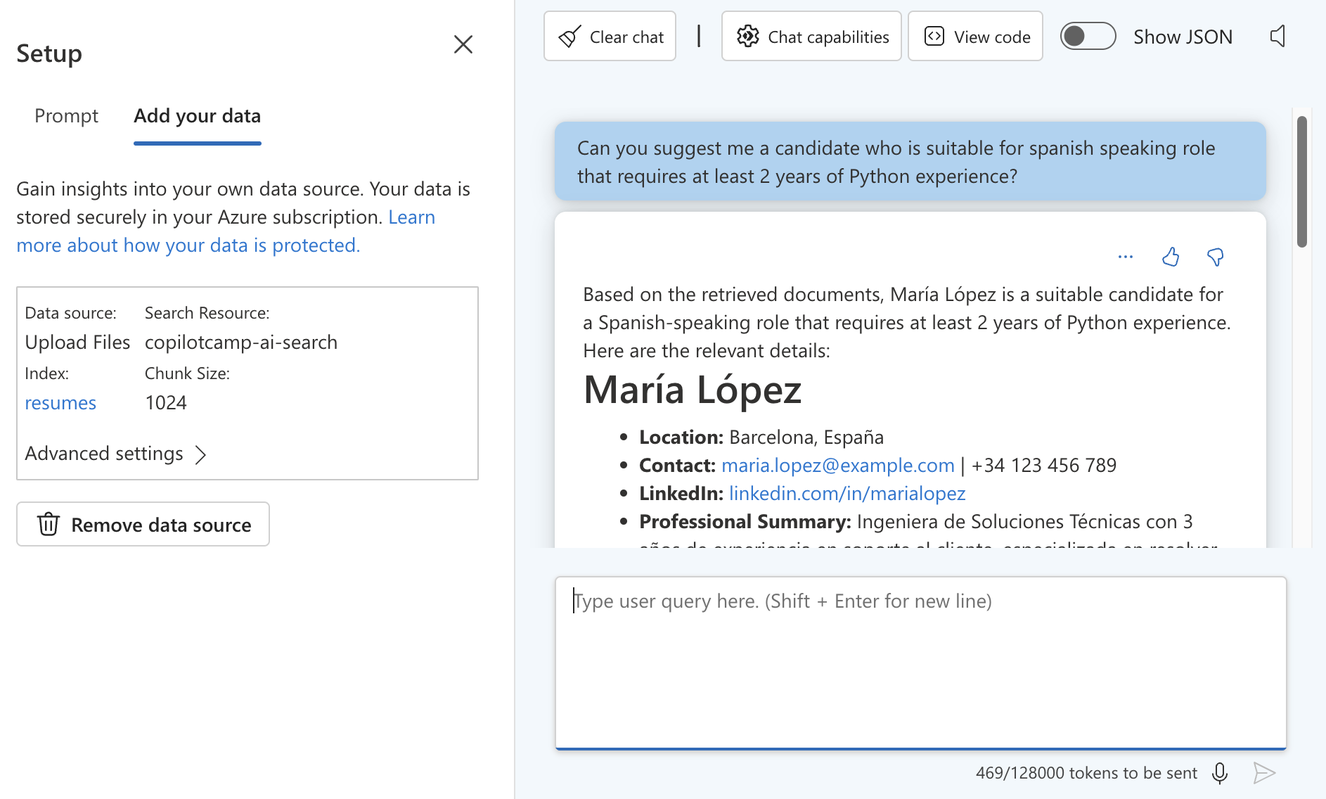
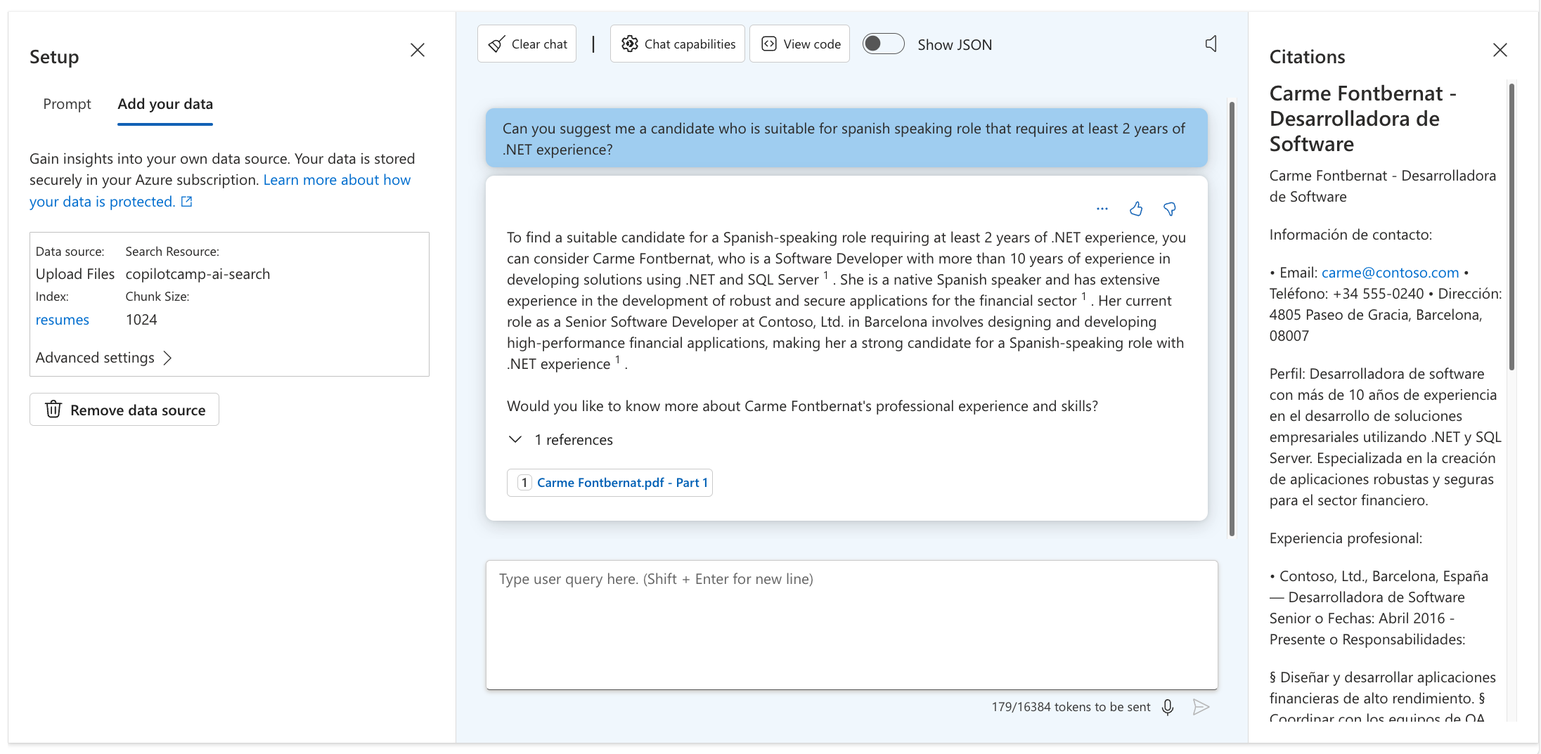
feedback fixes

diff --git a/docs/pages/custom-engine/01-custom-engine-copilot.md b/docs/pages/custom-engine/01-custom-engine-copilot.md
@@ -1,26 +1,29 @@
-# Lab B1 - Build custom engine copilots using Azure OpenAI and Teams Toolkit
+# Lab B1 - Build a custom engine copilot using Azure OpenAI and Teams Toolkit
 
 In this lab you will build a custom engine copilot using Teams Toolkit for Visual Studio Code. You will also utilize Azure OpenAI models in your custom engine copilot and define your first prompt.
 
 ???+ info "Navigating the Building your own copilot labs (B Path)"
     - [Lab B0 - Prerequisites](/copilot-camp/pages/custom-engine/00-prerequisites)
-    - [Lab B1 - Build custom engine copilots](/copilot-camp/pages/custom-engine/01-custom-engine-copilot) (📍 You are here)
-    - [Lab B2 - Bring your data](/copilot-camp/pages/custom-engine/02-rag)
-    - [Lab B3 - Enhance user experience](/copilot-camp/pages/custom-engine/03-powered-by-ai)
-    - [Lab B4 - Add actions](/copilot-camp/pages/custom-engine/04-actions)
-    - [Lab B5 - Add authentication](/copilot-camp/pages/custom-engine/05-authentication)
+    - [Lab B1 - Build a custom engine copilot using Azure OpenAI and Teams Toolkit](/copilot-camp/pages/custom-engine/01-custom-engine-copilot) (📍 You are here)
+    - [Lab B2 - Index your data in Azure AI Search and bring it into your custom engine copilot](/copilot-camp/pages/custom-engine/02-rag)
+    - [Lab B3 - Enhance user experience with the Powered by AI kit](/copilot-camp/pages/custom-engine/03-powered-by-ai)
+    - [Lab B4 - Add actions to handle complex tasks](/copilot-camp/pages/custom-engine/04-actions)
+    - [Lab B5 - Secure your solution using authentication](/copilot-camp/pages/custom-engine/05-authentication)
 
 In this lab you will learn:
 
 - What is a custom engine copilot
-- Create Azure OpenAI service and models
+- Create Azure OpenAI service and a deployment model
 - Create a custom engine copilot using Teams toolkit
 - Define a prompt in your custom engine copilot
 - Learn how to run and test your app
 
 ## Introduction
 
-Welcome aboard to the exciting journey of building your own custom engine copilot! In this path, you'll create a personalized copilot for Microsoft Teams using cutting-edge Azure OpenAI models. You'll be able to define specific prompts, integrate complex data, and add advanced skills to make your copilot truly unique. By using custom models and orchestration, your copilot will tackle advanced tasks, complex conversations, and workflows, delivering an exceptional, personalized experience. Let's dive in and start building your first custom engine copilot!
+Welcome aboard to the exciting journey of building your own custom engine copilot! In this path, you'll create a custom engine copilot for Microsoft Teams using cutting-edge Azure OpenAI models. You'll be able to define specific prompts, integrate complex data, and add advanced skills to make your copilot truly unique. By using custom models and orchestration, your copilot will tackle advanced tasks, complex conversations, and workflows, delivering an exceptional, personalized experience. Let's dive in and start building your first custom engine copilot!
+
+!!! tip "Before everything else, lets remember... What is a custom engine copilot?"
+    Custom engine copilots are chatbots powered by Generative AI, designed to provide sophisticated conversational experiences. Custom engine copilots are built using the Teams AI library, which provides comprehensive AI functionalities, including managing prompts, actions, and model integration as well as extensive options for UI customization. This ensures that your chatbots leverage the full range of AI capabilities while delivering a seamless and engaging experience aligned with Microsoft platforms.
 
 ## Exercise 1: Create Azure OpenAI service and models
 
@@ -43,7 +46,6 @@ Welcome aboard to the exciting journey of building your own custom engine copilo
     - **gpt-4o:** An optimized version for specific tasks, offering faster and more efficient performance in those areas.
 
     - **gpt-35-turbo:** A balanced model that provides good performance at a lower cost, ideal for a wide range of applications.
-
 
 You'll need to complete the Azure subscription pre-requisite before starting with this exercise.
 
@@ -72,10 +74,10 @@ In your Azure OpenAI service, navigate to **Model deployments** from the left si
 
 From the **Deployments** tab, select **Create a new deployment**. Fill out the following details and select **Create**:
 
+- **Deployment name:** Recommended to use the same name with the selected deployment model, such as `gpt-35-turbo`.
 - **Select a model:** Select `gpt-35-turbo` or higher model.
 - **Model version:** Auto update to default.
 - **Deployment type:** Provisioned-Managed.
-- **Deployment name:** Recommended to use the same name with the selected deployment model, such as `gpt-35-turbo`.
 - **Content Filter:** Default.
 
 !!! tip "Tip: Handling no quota available message"
@@ -85,6 +87,8 @@ From the **Deployments** tab, select **Create a new deployment**. Fill out the f
 
 Once your model is successfully created, you can navigate to **Chat**, and test your model by selecting one of the available templates in **Prompt** section and asking relevant questions in the chat playground.
 
+For example, choose "Shakespeare writing assistant" and ask questions such as "tell me about Istanbul". You'll be amazed by the descriptive and poetic style of the response ✍.
+
 ![Testing the model in Azure OpenAI Studio Chat Playground](../../assets/images/custom-engine-01/azure-openai-studio-chat.png)
 
 ## Exercise 2: Scaffold a custom engine copilot from template
@@ -92,9 +96,6 @@ Once your model is successfully created, you can navigate to **Chat**, and test 
 You'll need to complete all the required pre-requisites before starting with this exercise.
 
 ### Step 1: Use Teams Toolkit to create a new custom engine copilot
-
-???+ info "What is a custom engine copilot?"
-    Custom engine copilots are chat bots built with Teams AI library that utilizes Language Model of your choice for enhanced conversational interactions. With all the UI components in the Teams AI library, you can build custom engine copilots that look and feel like a Microsoft experience while leveraging all the enhanced AI capabilities from Azure AI.
 
 1. Open Teams Toolkit on Visual Studio Code and select **Create a New App** > **Custom Engine Copilot** > **Basic AI Chatbot**.
 1. Select **TypeScript** as a programming language choice and **Azure OpenAI** as Large Language model of your choice.
@@ -106,29 +107,7 @@ You'll need to complete all the required pre-requisites before starting with thi
 
 After providing all the details mentioned above, your project will be scaffolded successfully in seconds.
 
-### Step 2: Understanding the files in the app
-
-Let's explore what's included in the custom engine copilot template. Here is the list of folders and files that are important to know:
-
-- `appPackage`: Templates for the Teams application manifest
-- `env`: Environment files
-- `infra`: Templates for provisioning Azure resources
-- `src`: The source code for the application
-- `teamsapp.yml`: The main Teams Toolkit project file that defines properties and configuration definitions.
-- `teamsapp.local.yml`: This overrides `teamsapp.yml` with actions that enable local execution and debugging.
-- `teamsapp.testtool.yml`: This overrides `teamsapp.yml` with actions that enable local execution and debugging in Teams App Test Tool.
-
-Diving into the application folder `src` that includes the main app files:
-
-- `src/index.ts`: Sets up the bot app server.
-- `src/adapter.ts`: Sets up the bot adapter.
-- `src/config.ts`: Defines the environment variables.
-- `src/prompts/chat/skprompt.txt`: Defines the prompt.
-- `src/prompts/chat/config.json`: Configures the prompt.
-- `src/app/app.ts`: Handles business logics for the Basic AI Chatbot.
-
-
-### Step 3: Customize prompt and test the app
+### Step 2: Customize prompt and test the app
 
 Prompts are essential for interacting with AI language models and directing their behavior. They serve as the inputs or questions we provide to the model to obtain specific responses. By crafting prompts carefully, we can guide the AI to generate desired outputs. Let's customize the prompt of our custom engine copilot and define the behavior of Career Genie!
 
@@ -144,7 +123,7 @@ You like using emojis where appropriate.
 To test the behavior of your app quickly, you can use Teams App Test Tool. Later in the exercise, you'll run and debug your custom engine copilot on Microsoft Teams.
 
 ??? info "More information about the Teams App Test Tool"
-    Teams App Test Tool (or short as Test Tool) is a component integrated into Teams Toolkit. This component helps developers to debug, test, and iterate on the app design of a Teams bot application in a web-based chat environment that emulates the behavior, look, and feel of Microsoft Teams.
+    The Teams App Test Tool, or simply Test Tool, is a feature within Teams Toolkit that enables developers to debug, test, and refine their Teams bot applications in a web-based chat environment that mimics the behavior, look, and feel of Microsoft Teams. This tool eliminates the need for a Microsoft 365 tenant or a dev tunnel, streamlining the development process.
 
 Start debugging your app by selecting **Run and Debug** tab on Visual Studio Code and **Debug in Test Tool**. Teams App Test Tool will pop up on your browser and you can start chatting with your custom engine copilot right away! Some of the recommended questions you can ask to test the behavior:
 
@@ -153,5 +132,15 @@ Start debugging your app by selecting **Run and Debug** tab on Visual Studio Cod
 - "Can you share a job template?"
 
 ![Test Career Genie in App Test Tool](../../assets/images/custom-engine-01/teams-app-test-tool.png)
+
+??? info "What does Teams Toolkit do behind the scene?"
+    When you start debugging your app, Teams Toolkit completes some required tasks for you behind the scene, such as:
+
+    - Checking the required prerequisites such as Node.js, Microsoft 365 Account (If debugging in local or dev), ports occupancy.
+    - Starting local tunneling service (If debugging in local) to forward public URL to local port.
+    - Executing the lifecycle stage provision, available in `teamsapp.yml`, `teamsapp.local.user` or `teamsapp.testtool.user` files for creating Teams App ID, completing bot registration, executing the app manifest and creating the app package, available in `appPackage/` folder.
+    - Create or update variables to env file, available in `env/` folder.
+
+After successfully completing your testing, end your debugging session and close the terminals in Visual Studio Code.
 
 Congratulations you've successfully built your first custom engine copilot, Career Genie! To advance the skills of the Career Genie, continue with the next lab [Bring your data from Azure AI Search to your app](02-rag.md).

diff --git a/docs/pages/custom-engine/00-prerequisites.md b/docs/pages/custom-engine/00-prerequisites.md
@@ -1,17 +1,17 @@
 
 # Lab B0 - Prerequisites
 
-In this lab you set up for development environment to build, test and deploy the custom engine copilot you'll develop throughout the path B.
+In this lab you will set up your development environment to build, test, and deploy the custom engine copilot you will develop throughout the path.
 
 ???+ info "Navigating the Building your own copilot labs (B Path)"
     - [Lab B0 - Prerequisites](/copilot-camp/pages/custom-engine/00-prerequisites) (📍 You are here)
-    - [Lab B1 - Build custom engine copilots](/copilot-camp/pages/custom-engine/01-custom-engine-copilot)
-    - [Lab B2 - Bring your data](/copilot-camp/pages/custom-engine/02-rag)
-    - [Lab B3 - Enhance user experience](/copilot-camp/pages/custom-engine/03-powered-by-ai)
-    - [Lab B4 - Add actions](/copilot-camp/pages/custom-engine/04-actions)
-    - [Lab B5 - Add authentication](/copilot-camp/pages/custom-engine/05-authentication)
+    - [Lab B1 - Build a custom engine copilot using Azure OpenAI and Teams Toolkit](/copilot-camp/pages/custom-engine/01-custom-engine-copilot)
+    - [Lab B2 - Index your data in Azure AI Search and bring it into your custom engine copilot](/copilot-camp/pages/custom-engine/02-rag)
+    - [Lab B3 - Enhance user experience with the Powered by AI kit](/copilot-camp/pages/custom-engine/03-powered-by-ai)
+    - [Lab B4 - Add actions to handle complex tasks](/copilot-camp/pages/custom-engine/04-actions)
+    - [Lab B5 - Secure your solution using authentication](/copilot-camp/pages/custom-engine/05-authentication)
 
-In this lab you will learn:
+In this lab you will learn how to:
 
 - Make your developer tenant for Microsoft 365 ready
 - Install and configure Teams toolkit for Visual Studio Code
@@ -19,7 +19,7 @@ In this lab you will learn:
 
 ## Exercise 1: Set up your Microsoft 365 Subscription
 
-To install and run your own declarative copilot, you'll need a Microsoft 365 tenant where you have administrator permission. Fortunately you can get one for free through the Microsoft 365 Developer Program! In the labs which follow, you'll also use this tenant to run Microsoft Teams where you can test this lab.
+To install and run your own custom engine copilot, you'll need a Microsoft 365 tenant where you have administrator permission. Fortunately you can get one for free through the Microsoft 365 Developer Program! In the labs which follow, you'll also use this tenant to run Microsoft Teams where you can test this lab.
 You will also need Copilot License to test the app.
 
 ### Step 1: Get a tenant
@@ -75,7 +75,7 @@ It should be no surprise that **Teams Toolkit for Visual Studio Code** requires 
 
 NodeJS is a program that allows you to run JavaScript on your computer; it uses the open source "V8" engine, which is used in popular web browsers such as Microsoft Edge and Google Chrome. You will need NodeJS to run the web server code used throughout this workshop.
 
-Browse to [https://nodejs.org/en/download/](https://nodejs.org/en/download/){target=_blank} and install version 18.x, the "LTS" (Long Term Support) version for your operating system. This lab has been tested using NodeJS version 18.16.0. If you already have another version of NodeJS installed, you may want to set up the [Node Version Manager](https://github.com/nvm-sh/nvm){target=_blank} (or [this variation](https://github.com/coreybutler/nvm-windows){target=_blank} for Microsoft Windows), which allows you to easily switch Node versions on the same computer.
+Browse to [https://nodejs.org/en/download/](https://nodejs.org/en/download/){target=_blank} and install version 20.x, the "LTS" (Long Term Support) version for your operating system. This lab has been tested using NodeJS version 18.16.0. If you already have another version of NodeJS installed, you may want to set up the [Node Version Manager](https://github.com/nvm-sh/nvm){target=_blank} (or [this variation](https://github.com/coreybutler/nvm-windows){target=_blank} for Microsoft Windows), which allows you to easily switch Node versions on the same computer.
 
 ### Step 3: Install Teams Toolkit
 
@@ -111,9 +111,5 @@ Follow the steps to activate an Azure free account:
 
 !!! tip "Tip: Managing Azure resources after 30 days"
     Azure free account will be available only for 30 days. Make sure you don't have any services running in your free subscription at the end of 30 days. If you want to continue using Azure services at the end of 30 days, you must upgrade to a pay-as-you-go subscription by removing the spending limit. This allows continued use of the Azure free account and select free services for the term.
-
-### Step 2: Obtain access to create Azure OpenAI service
-
-In the path B exercises, you'll need to create Azure OpenAI service and models. Before starting with the exercises, make sure you have access granted to Azure OpenAI in the desired Azure subscription and have required permissions to create Azure OpenAI resources and to deploy models. If you don't have access to Azure OpenAI, you must submit an application to access Azure OpenAI Service. To apply for access, complete [this form](https://customervoice.microsoft.com/Pages/ResponsePage.aspx?id=v4j5cvGGr0GRqy180BHbR7en2Ais5pxKtso_Pz4b1_xUNTZBNzRKNlVQSFhZMU9aV09EVzYxWFdORCQlQCN0PWcu).
 
 Now you are all set to create your first custom engine copilot! Proceed to create a [Custom engine copilot](./01-custom-engine-copilot.md).

diff --git a/docs/pages/custom-engine/02-rag.md b/docs/pages/custom-engine/02-rag.md
@@ -1,14 +1,14 @@
-# Lab B2 - Bring your data from Azure AI Search to your app
+# Lab B2 - Index your data in Azure AI Search and bring it into your custom engine copilot
 
 In this lab you will enable Retrieval-Augmented Generation for your custom engine copilot and integrate with Azure AI Search to chat with your data.
 
 ???+ info "Navigating the Building your own copilot labs (B Path)"
     - [Lab B0 - Prerequisites](/copilot-camp/pages/custom-engine/00-prerequisites)
-    - [Lab B1 - Build custom engine copilots](/copilot-camp/pages/custom-engine/01-custom-engine-copilot)
-    - [Lab B2 - Bring your data](/copilot-camp/pages/custom-engine/02-rag) (📍 You are here)
-    - [Lab B3 - Enhance user experience](/copilot-camp/pages/custom-engine/03-powered-by-ai)
-    - [Lab B4 - Add actions](/copilot-camp/pages/custom-engine/04-actions)
-    - [Lab B5 - Add authentication](/copilot-camp/pages/custom-engine/05-authentication)
+    - [Lab B1 - Build a custom engine copilot using Azure OpenAI and Teams Toolkit](/copilot-camp/pages/custom-engine/01-custom-engine-copilot)
+    - [Lab B2 - Index your data in Azure AI Search and bring it into your custom engine copilot](/copilot-camp/pages/custom-engine/02-rag) (📍 You are here)
+    - [Lab B3 - Enhance user experience with the Powered by AI kit](/copilot-camp/pages/custom-engine/03-powered-by-ai)
+    - [Lab B4 - Add actions to handle complex tasks](/copilot-camp/pages/custom-engine/04-actions)
+    - [Lab B5 - Secure your solution using authentication](/copilot-camp/pages/custom-engine/05-authentication)
 
 In this lab you will learn:
 
@@ -78,9 +78,9 @@ You'll need to complete the Azure subscription pre-requisite before starting wit
     - **Resource group:** Select the pre-existing resource group you created earlier for Azure OpenAI service.
     - **Name:** A descriptive name for your Azure OpenAI Service resource, such as `copilotcamp-ai-search`.
     - **Location:** The location of your instance.
-    - **Pricing Tier:** Standard
+    - **Pricing Tier:** Basic
 
-Once your Azure AI Search service resource is created successfully, navigate to your resource, In **Overview**, copy and save `Url`. Then, navigate to **Keys**, copy and save `Primary admin key`. Both of them will be required later in the following exercises.
+Once your Azure AI Search service resource is created successfully, navigate to your resource, In **Overview**, copy and save `Url`. Then, navigate to **Keys** tab under the **Settings**, copy and save `Primary admin key`. Both of them will be required later in the following exercises.
 
 ### Step 2: Create a storage account service resource
 
@@ -114,7 +114,7 @@ Open [Azure OpenAI Studio](https://oai.azure.com/portal) in your browser, then s
 
 ## Exercise 2: Upload your documents to Azure AI Search using Azure OpenAI Studio
 
-For this exercise, download [fictitious_resumes.zip](../../../src/custom-engine-copilot/Lab02-RAG/CareerGenie/fictitious_resumes.zip) and unzip the folder.
+For this exercise, download [fictitious_resumes.zip](https://github.com/microsoft/copilot-camp/raw/main/src/custom-engine-copilot/Lab02-RAG/CareerGenie/fictitious_resumes.zip) and unzip the folder.
 
 ### Step 1: Upload your documents to Azure AI Search
 
@@ -136,6 +136,8 @@ For this exercise, download [fictitious_resumes.zip](../../../src/custom-engine-
 1. Select **Browse for a file** and select the pdf documents from the `resumes` folder. Then, select **Upload files** and **Next**.
 1. Select Search type as `Vector` and chunk size as `1024(Default)`, then **Next**.
 1. Select `API Key` as Azure resource authentication type, then **Next**.
+
+It takes couple of minutes to complete the data ingestion. Once the data is ready, you can proceed with testing.
 
 ### Step 2: Test your data on Azure OpenAI Studio
 
@@ -271,6 +273,11 @@ defaultPrompt: async () => {
 Let's test Career Genie on Teams this time. Start debugging your app by selecting **Run and Debug** tab on Visual Studio Code and **Debug in Teams (Edge)** or **Debug in Teams (Chrome)**. Microsoft Teams will pop up on your browser. Once your app details show up on Teams, select **Add** and start chatting with your app.
 
 !!! tip "Tip: Asking questions about your data"
-    Ensure your questions are related to your dataset. Go through pdf documents in the `resumes` folder to understand more about your data. Challenge your custom engine copilot by combining requirements and asking complex questions!
+    Ensure your questions are related to your dataset. Go through pdf documents in the `resumes` folder to understand more about your data. Challenge your custom engine copilot by combining requirements and asking complex questions! Some suggestions would be:
+
+    - *Can you suggest a candidate who is suitable for spanish speaking role that requires at least 2 years of .NET experience?*
+    - *Who are the other good candidates?*
+    - *Who would be suitable for a position that requires 5+ python development experience?*
+    - *Can you suggest any candidates for a senior developer position with 7+ year experience that requires Japanese speaking?*
 
 ![Chat with your data on Teams](../../assets/images/custom-engine-02/byod-teams.gif)

diff --git a/docs/pages/custom-engine/index.md b/docs/pages/custom-engine/index.md
@@ -1,16 +1,21 @@
 
 # Welcome to Copilot Camp's Path B: Build your own copilot
 
-During Path B of the Copilot Camp, learners will develop a custom AI chatbot specifically designed to handle complex career-related tasks and workflows for a Human Resources department. The journey starts with building a basic custom engine copilot using Teams Toolkit and Azure OpenAI. Learners will then integrate Retrieval Augmented Generation (RAG) to interact with business data, apply UI enhancements to make the chatbot look and feel like a Copilot experience, enable single sign-on, and use Microsoft Graph to incorporate Microsoft 365 data. This sophisticated AI chatbot will utilize custom AI models and an orchestrator to meet the unique needs of the Human Resources department.
+During Path B of the Copilot Camp, you will develop a custom engine copilot specifically designed to help Human Resources departments manage resumes, create new job posts and more.
+
+!!! tip "What is a custom engine copilot?"
+    Custom engine copilots are chatbots powered by Generative AI, designed to provide sophisticated conversational experiences. Custom engine copilots are built using the Teams AI library, which provides comprehensive AI functionalities, including managing prompts, actions, and model integration as well as extensive options for UI customization. This ensures that your chatbots leverage the full range of AI capabilities while delivering a seamless and engaging experience aligned with Microsoft platforms.
+
+The journey starts with building a basic custom engine copilot using Teams Toolkit, Teams AI library and Azure OpenAI. Then, you will implement Retrieval Augmented Generation (RAG) that provides ability to search across diverse resumes, apply UI enhancements to make the chatbot look and feel like a Copilot experience, finally you will enable authentication to secure your custom engine copilot and use Microsoft Graph to incorporate Microsoft 365 data. This sophisticated custom engine copilot will utilize custom AI models and an orchestrator to meet the unique needs of the Human Resources department.
 
 <hr />
 
 ???+ info "Here are the labs"
-    - [Lab B0 - Prerequisites](/copilot-camp/pages/custom-engine/00-prerequisites) Set up your development environment
-    - [Lab B1 - Build custom engine copilots](/copilot-camp/pages/custom-engine/01-custom-engine-copilot) Build custom engine copilots using Azure OpenAI and Teams Toolkit
-    - [Lab B2 - Bring your data](/copilot-camp/pages/custom-engine/02-rag) Bring your data from Azure AI Search to your app
-    - [Lab B3 - Enhance user experience](/copilot-camp/pages/custom-engine/03-powered-by-ai) Enhance user experience with Powered by AI kit
-    - [Lab B4 - Add actions](/copilot-camp/pages/custom-engine/04-actions) Add actions to handle complex tasks
-    - [Lab B5 - Add authentication](/copilot-camp/pages/custom-engine/04-add-authentication) Secure your solution using Entra ID authentication
+    - [Lab B0 - Prerequisites](/copilot-camp/pages/custom-engine/00-prerequisites)
+    - [Lab B1 - Build a custom engine copilot using Azure OpenAI and Teams Toolkit](/copilot-camp/pages/custom-engine/01-custom-engine-copilot)
+    - [Lab B2 - Index your data in Azure AI Search and bring it into your custom engine copilot](/copilot-camp/pages/custom-engine/02-rag)
+    - [Lab B3 - Enhance user experience with the Powered by AI kit](/copilot-camp/pages/custom-engine/03-powered-by-ai)
+    - [Lab B4 - Add actions to handle complex tasks](/copilot-camp/pages/custom-engine/04-actions)
+    - [Lab B5 - Secure your solution using authentication](/copilot-camp/pages/custom-engine/05-authentication)
   
 ## <a href="./00-prerequisites">Start here</a> with Lab B0, where you'll set up development your environment.

diff --git a/docs/pages/custom-engine/03-powered-by-ai.md b/docs/pages/custom-engine/03-powered-by-ai.md
@@ -1,11 +1,11 @@
-# B3 - Enhance user experience with Powered by AI kit
+# B3 - Enhance user experience with the Powered by AI kit
 
 ???+ info "Navigating the Building your own copilot labs (B Path)"
     - [Lab B0 - Prerequisites](/copilot-camp/pages/custom-engine/00-prerequisites)
-    - [Lab B1 - Build custom engine copilots](/copilot-camp/pages/custom-engine/01-custom-engine-copilot)
-    - [Lab B2 - Bring your data](/copilot-camp/pages/custom-engine/02-rag)
-    - [Lab B3 - Enhance user experience](/copilot-camp/pages/custom-engine/03-powered-by-ai) (📍 You are here)
-    - [Lab B4 - Add actions](/copilot-camp/pages/custom-engine/04-actions)
-    - [Lab B5 - Add authentication](/copilot-camp/pages/custom-engine/05-authentication)
+    - [Lab B1 - Build a custom engine copilot using Azure OpenAI and Teams Toolkit](/copilot-camp/pages/custom-engine/01-custom-engine-copilot)
+    - [Lab B2 - Index your data in Azure AI Search and bring it into your custom engine copilot](/copilot-camp/pages/custom-engine/02-rag)
+    - [Lab B3 - Enhance user experience with the Powered by AI kit](/copilot-camp/pages/custom-engine/03-powered-by-ai) (📍 You are here)
+    - [Lab B4 - Add actions to handle complex tasks](/copilot-camp/pages/custom-engine/04-actions)
+    - [Lab B5 - Secure your solution using authentication](/copilot-camp/pages/custom-engine/05-authentication)
 
 ## WORK IN PROGRESS

diff --git a/docs/pages/custom-engine/05-authentication.md b/docs/pages/custom-engine/05-authentication.md
@@ -1,11 +1,11 @@
-# B5 - Secure your solution using Entra ID authentication
+# B5 - Secure your solution using authentication
 
 ???+ info "Navigating the Building your own copilot labs (B Path)"
     - [Lab B0 - Prerequisites](/copilot-camp/pages/custom-engine/00-prerequisites)
-    - [Lab B1 - Build custom engine copilots](/copilot-camp/pages/custom-engine/01-custom-engine-copilot)
-    - [Lab B2 - Bring your data](/copilot-camp/pages/custom-engine/02-rag)
-    - [Lab B3 - Enhance user experience](/copilot-camp/pages/custom-engine/03-powered-by-ai)
-    - [Lab B4 - Add actions](/copilot-camp/pages/custom-engine/04-actions)
-    - [Lab B5 - Add authentication](/copilot-camp/pages/custom-engine/05-authentication) (📍 You are here)
+    - [Lab B1 - Build a custom engine copilot using Azure OpenAI and Teams Toolkit](/copilot-camp/pages/custom-engine/01-custom-engine-copilot)
+    - [Lab B2 - Index your data in Azure AI Search and bring it into your custom engine copilot](/copilot-camp/pages/custom-engine/02-rag)
+    - [Lab B3 - Enhance user experience with the Powered by AI kit](/copilot-camp/pages/custom-engine/03-powered-by-ai)
+    - [Lab B4 - Add actions to handle complex tasks](/copilot-camp/pages/custom-engine/04-actions)
+    - [Lab B5 - Secure your solution using authentication](/copilot-camp/pages/custom-engine/05-authentication) (📍 You are here)
 
 ## WORK IN PROGRESS

diff --git a/docs/includes/b-path-links.md b/docs/includes/b-path-links.md
@@ -1,6 +1,6 @@
-- [Lab B0 - Prerequisites](/copilot-camp/pages/custom-engine/00-prerequisites) - DRAFT READY FOR TESTING
-- [Lab B1 - Custom Engine Copilot](/copilot-camp/pages/custom-engine/01-custom-enging-copilot) - DRAFT READY FOR TESTING
-- [Lab B2 - Bring your data (RAG)](/copilot-camp/pages/custom-engine/02-rag) - DRAFT READY FOR TESTING
-- [Lab B3 - Powered by AI Kit](/copilot-camp/pages/custom-engine/03-powered-by-ai) - COMING SOON
-- [Lab B4 - Add actions](/copilot-camp/pages/custom-engine/04-actions) - COMING SOON
-- [Lab B5 - Add authentication](/copilot-camp/pages/custom-engine/05-authentication) - COMING SOON
+- [Lab B0 - Prerequisites](/copilot-camp/pages/custom-engine/00-prerequisites) READY FOR TESTING
+- [Lab B1 - Build a custom engine copilot using Azure OpenAI and Teams Toolkit](/copilot-camp/pages/custom-engine/01-custom-engine-copilot) READY FOR TESTING
+- [Lab B2 - Index your data in Azure AI Search and bring it into your custom engine copilot](/copilot-camp/pages/custom-engine/02-rag) READY FOR TESTING
+- [Lab B3 - Enhance user experience with the Powered by AI kit](/copilot-camp/pages/custom-engine/03-powered-by-ai) COMING SOON
+- [Lab B4 - Add actions to handle complex tasks](/copilot-camp/pages/custom-engine/04-actions) COMING SOON
+- [Lab B5 - Secure your solution using authentication](/copilot-camp/pages/custom-engine/05-authentication) COMING SOON

diff --git a/docs/pages/custom-engine/04-actions.md b/docs/pages/custom-engine/04-actions.md
@@ -2,10 +2,10 @@
 
 ???+ info "Navigating the Building your own copilot labs (B Path)"
     - [Lab B0 - Prerequisites](/copilot-camp/pages/custom-engine/00-prerequisites)
-    - [Lab B1 - Build custom engine copilots](/copilot-camp/pages/custom-engine/01-custom-engine-copilot)
-    - [Lab B2 - Bring your data](/copilot-camp/pages/custom-engine/02-rag)
-    - [Lab B3 - Enhance user experience](/copilot-camp/pages/custom-engine/03-powered-by-ai)
-    - [Lab B4 - Add actions](/copilot-camp/pages/custom-engine/04-actions) (📍 You are here)
-    - [Lab B5 - Add authentication](/copilot-camp/pages/custom-engine/05-authentication)
+    - [Lab B1 - Build a custom engine copilot using Azure OpenAI and Teams Toolkit](/copilot-camp/pages/custom-engine/01-custom-engine-copilot)
+    - [Lab B2 - Index your data in Azure AI Search and bring it into your custom engine copilot](/copilot-camp/pages/custom-engine/02-rag)
+    - [Lab B3 - Enhance user experience with the Powered by AI kit](/copilot-camp/pages/custom-engine/03-powered-by-ai)
+    - [Lab B4 - Add actions to handle complex tasks](/copilot-camp/pages/custom-engine/04-actions) (📍 You are here)
+    - [Lab B5 - Secure your solution using authentication](/copilot-camp/pages/custom-engine/05-authentication)
 
 ## WORK IN PROGRESS
